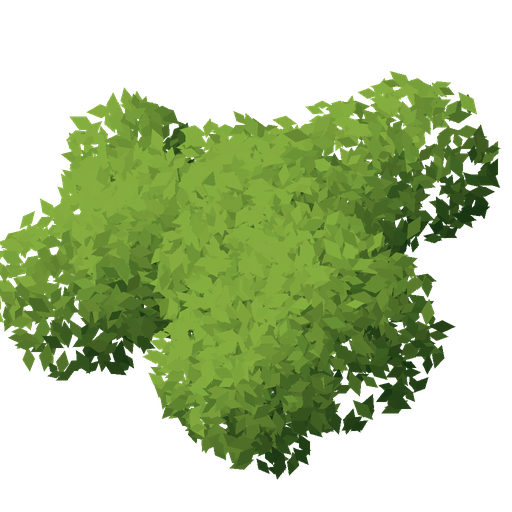
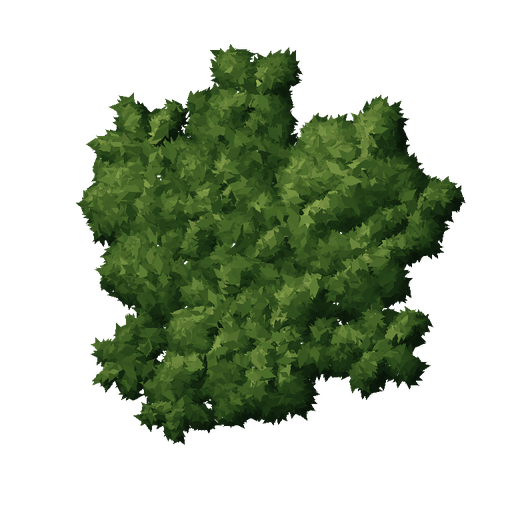
Cinematic scene B2: volumetric tree crowns, three species, wind sway (v5.9, build 30)
- tools/foliage2_tex.py: crowns from a smooth union of lobed leaf clumps -> sun shading, cavity darkening between
  clumps -> leaves stamped with that shading; three variants (deep green, olive with dry leaves, dark giant)
- Jungle Ridge: denser canopy with all three variants, fewer and darker palms; foliage vertex sway (WIND uniform)
- Harbor/Canyon canopy tints adjusted for the new sprite; tests/regress.js 22/22

Claude-Session: https://claude.ai/code/session_01AsdB9u4gCDyr1VnZkMAyLa

diff --git a/js/world.js b/js/world.js
@@ -132,7 +132,7 @@ const BIOME={
    if(x<-30)h+=mtn(x,z,30);if(x>48)h=Math.max(h,mtn(x,z,22,48,95)-4);return h;},
   P:{low:'#5f8f48',mid:'#6f9a52',m0:1,m1:4,high:'#6b6b5a',h0:8,h1:16,rock:'#7a6e60',snow:24,sand:1,wl:.6,sandc:'#e0cf9f',deep:'#2a5560'},uses:['canopy','boulder','boulder2','kk_building_A','kk_building_E'],
   props(R,z0,put,HF){for(let z=z0-2;z>z0-TL;z-=4.4+R()*1.6){const x=-15-R()*6;if(HF(x,z)>.6){if(R()<.45)put(pick(['kk_building_A','kk_building_E']),x,z,2.4+R()*.5,Math.floor(R()*4)*Math.PI/2,null);else put(R()<.75?'house':'ware',x,z,1+R()*.4,R()*.4-.2,pick(['#f2e6d0','#e8d8c0','#dfe6ea','#f4d6b8']),1,0);}}
-   for(let i=0;i<120;i++){const x=-24-R()*70,z=z0-R()*TL,h=HF(x,z);if(h>.9&&h<14)put('canopy',x,z,5.5+R()*4,R()*TAU,pick(['#8aa070','#7a9464','#98ac78']));}
+   for(let i=0;i<120;i++){const x=-24-R()*70,z=z0-R()*TL,h=HF(x,z);if(h>.9&&h<14)put('canopy',x,z,5.5+R()*4,R()*TAU,pick(['#e0ead6','#d6e2cc','#eef2e2']));}
    for(let i=0;i<3;i++){const z=z0-10-R()*(TL-20),c=-9+2.5*Math.sin(z*.012)+1.2*Math.sin(z*.041);put('pier',c+3,z,1,0,'#7b6248',1,0,[7,1,1]);}
    for(let i=0;i<30;i++){const x=48+R()*50,z=z0-R()*TL;if(HF(x,z)>1)put(R()<.5?'boulder':'boulder2',x,z,1.4+R()*2.4,R()*TAU,'#e8e0d4',.8,-.3);}}},
  farm:{sky:['#4a90e2','#cfe3f5','#a8b890'],fog:'#d6e4ee',fogN:1,sun:['#fff1d6',2.6],sunDir:[-.35,.8,-.4],hemi:['#cfe3ff','#5a6a3a',.55],exp:1,wl:-60,clouds:6,
@@ -195,12 +195,12 @@ const BIOME={
    if(bank<3.6){grav=Math.max(grav,(1-sst(2.2,3.6,bank))*.7);soil*=.6;}
    const tot=rock+soil+moss+grav;if(tot>1){rock/=tot;soil/=tot;moss/=tot;grav/=tot;}o[0]=soil;o[1]=rock;o[2]=moss;o[3]=grav;},
   wet(x,z,h){const rx=7+7*Math.sin(z*.011)+2*Math.sin(z*.037);return 1-sst(2.5,6,Math.abs(x-rx));},
-  occ:{canopy:[.42,.5],palmS:[.28,.35],boulder:[1,.55],boulder2:[1,.55],stone:[.6,.45]},   // contact shadow radius factor, strength
-  uses:['boulder','boulder2','stone','palmS','canopy','fern'],
+  occ:{canopy:[.42,.5],canopy2:[.42,.5],canopy3:[.44,.55],palmS:[.28,.35],boulder:[1,.55],boulder2:[1,.55],stone:[.6,.45]},   // contact shadow radius factor, strength
+  uses:['boulder','boulder2','stone','palmS','canopy','canopy2','canopy3','fern'],
   props(R,z0,put,HF){const RX=z=>7+7*Math.sin(z*.011)+2*Math.sin(z*.037),SL=(x,z)=>Math.hypot(HF(x+1,z)-HF(x-1,z),HF(x,z+1)-HF(x,z-1))/2;
    // broadleaf canopy, dense on gentle ground, never on cliff faces
-   for(let i=0;i<170;i++){const x=R()*170-85,z=z0-R()*TL,h=HF(x,z);if(h<.6||Math.abs(x-RX(z))<5.5||SL(x,z)>.45)continue;put('canopy',x,z,6+R()*4.5,R()*TAU,pick(['#7e9468','#73885e','#8a9a70','#68805a']));}
-   for(let i=0;i<70;i++){const z=z0-R()*TL,sd=R()<.5?-1:1,x=RX(z)+sd*(4.5+R()*14),h=HF(x,z);if(h<.2||SL(x,z)>.4)continue;put('palmS',x,z,6+R()*3,R()*TAU,pick(['#94a87a','#88a070','#9eb084']));}
+   for(let i=0;i<250;i++){const x=R()*170-85,z=z0-R()*TL,h=HF(x,z);if(h<.6||Math.abs(x-RX(z))<5.5||SL(x,z)>.45)continue;const v=R(),big=v>.82;put(v<.5?'canopy':big?'canopy3':'canopy2',x,z,(big?8:6)+R()*4.5,R()*TAU,pick(['#e8f0e0','#dce8d2','#f2f4e6','#d4e0c8']));}
+   for(let i=0;i<28;i++){const z=z0-R()*TL,sd=R()<.5?-1:1,x=RX(z)+sd*(4.5+R()*12),h=HF(x,z);if(h<.2||SL(x,z)>.4)continue;put('palmS',x,z,5.5+R()*2.5,R()*TAU,pick(['#7c8c66','#748660','#869472']));}
    for(let i=0;i<240;i++){const x=R()*150-75,z=z0-R()*TL,h=HF(x,z);if(h<.1||Math.abs(x-RX(z))<4||SL(x,z)>.5)continue;put('fern',x,z,1.6+R()*1.6,R()*TAU,pick(['#86a070','#7a9466','#90a87a']));}
    // river-bank stones
    for(let i=0;i<36;i++){const z=z0-R()*TL,sd=R()<.5?-1:1,x=RX(z)+sd*(3+R()*3);put(R()<.5?'boulder':'boulder2',x,z,.6+R()*1.3,R()*TAU,pick(['#e6e0d4','#d6d0c4','#c8c2b6']),.75+R()*.4,-.2);}
@@ -233,7 +233,7 @@ const BIOME={
   HF(x,z){const rv=2+6*Math.sin(z*.009),d=Math.abs(x-rv);let p=sst(10,24,d+fbm(x*.05,z*.05,2)*4)*20+fbm(x*.03,z*.03,3)*2;p=Math.floor(p/3)*3+(p%3)*.3;let h=.6+p+mtn(x,z,14,50,95);h-=2.6*Math.exp(-((d/2.8)**2));return h;},
   P:{low:'#c98a5a',mid:'#b4653f',m0:1,m1:4,high:'#d98d5f',h0:10,h1:16,rock:'#8d4630',sand:1,wl:-.2,sandc:'#a8704a',deep:'#5a3a2a'},
   cf(o,x,z,h,sl){if(h>2){const b=Math.floor(h/3)%4;mixc(o,o,lc(['#a95a3b','#c4714a','#8d4630','#d98d5f'][b]),.7);}},
-  props(R,z0,put,HF){for(let i=0;i<70;i++){const x=R()*140-70,z=z0-R()*TL,h=HF(x,z);if(h>-.2){if(R()<.6)put(R()<.5?'boulder':'boulder2',x,z,1+R()*2,R()*TAU,pick(['#d88a60','#c47a52','#e09a70']),.8,-.3);else put('canopy',x,z,3.5+R()*2.5,R()*TAU,'#8a9a5c');}}}},
+  props(R,z0,put,HF){for(let i=0;i<70;i++){const x=R()*140-70,z=z0-R()*TL,h=HF(x,z);if(h>-.2){if(R()<.6)put(R()<.5?'boulder':'boulder2',x,z,1+R()*2,R()*TAU,pick(['#d88a60','#c47a52','#e09a70']),.8,-.3);else put('canopy',x,z,3.5+R()*2.5,R()*TAU,'#d8d4b0');}}}},
  arctic:{sky:['#7aa8d8','#eaf2fa','#c8d8e6'],fog:'#e2ecf4',fogN:.75,sun:['#fff8ee',2.4],sunDir:[-.4,.6,-.6],hemi:['#e6f0ff','#8aa0b8',.8],exp:.95,water:{c:'#1b3e56',op:.95},wl:0,clouds:6,
   HF(x,z){const ic=14+3*Math.sin(z*.013);let h;if(x<ic)h=.6+fbm(x*.03,z*.03,3)*1.2+(x<0?mtn(x,z,34,28,85):0);else{h=-3;if(fbm(x*.07,z*.07,2)>.18)h=.15;}if(x>60)h=Math.max(h,mtn(x,z,18,60,95)-3);return h;},
   P:{low:'#e8f0f6',mid:'#f4f8fb',m0:1,m1:4,high:'#dfe8ef',h0:6,h1:12,rock:'#5a6470',snow:10,sand:1,wl:.05,sandc:'#cfe6f0',deep:'#1a3040'},
@@ -257,7 +257,7 @@ const BIOME={
    if(R()<.8){const z=z0-R()*TL,x=(R()<.5?-1:1)*(14+R()*8);put('ruin',x,z,1,R(),'#3a302c',1,0,[6,3,1]);put('ruin',x+3,z-3,1,R(),'#3a302c',1,0,[1,4,6]);}}},
 };
 // biome-specific weather textures etc
-const PROPS={};
+const PROPS={},WIND={value:0};   // WIND: shared time uniform for foliage sway
 function nonIdx(g){return g.index?g.toNonIndexed():g;}
 function merge(parts){let n=0;const gs=parts.map(([g,c,m])=>{let q=nonIdx(g.clone());if(m)q.applyMatrix4(m);q.deleteAttribute('uv');n+=q.attributes.position.count;return[q,c];});
  const pos=new Float32Array(n*3),nor=new Float32Array(n*3),cl=new Float32Array(n*3);let o=0;
@@ -294,9 +294,13 @@ function buildProps(){const veg=new T3.MeshStandardMaterial({vertexColors:true,f
  const rockMat=new T3.MeshStandardMaterial({map:GTX.rock.map,normalMap:GTX.rock.n,normalScale:new T3.Vector2(.75,.75),roughness:.92,metalness:0});
  PROPS.boulder={geo:boulderGeo(3),mat:rockMat,cap:260};PROPS.boulder2={geo:boulderGeo(9),mat:rockMat,cap:200};
  const sb=new T3.BoxGeometry(1,1,1);sb.translate(0,.5,0);PROPS.stone={geo:sb,mat:rockMat,cap:120};
+ // foliage sways in the wind: each instance gets its own phase from its position; the crown edges move most
+ const sway=m=>{m.onBeforeCompile=sh=>{sh.uniforms.uWind=WIND;sh.vertexShader='uniform float uWind;\n'+sh.vertexShader.replace('#include <begin_vertex>',
+  '#include <begin_vertex>\n#ifdef USE_INSTANCING\nfloat wph=instanceMatrix[3].x*.21+instanceMatrix[3].z*.13;\n#else\nfloat wph=0.;\n#endif\ntransformed.xz+=vec2(sin(uWind*1.7+wph),cos(uWind*1.25+wph*1.3))*.05*length(position.xz);');};return m;};
  const spr=(f,h,cap)=>{const t=GTX.L.load('art/'+f+'?v='+BUILD);t.encoding=T3.sRGBEncoding;t.anisotropy=4;const g=new T3.PlaneGeometry(1,1);g.rotateX(-Math.PI/2);g.translate(0,h,0);
-  return{geo:g,mat:new T3.MeshStandardMaterial({map:t,alphaTest:.42,side:T3.DoubleSide,roughness:.82,metalness:0}),depth:new T3.MeshDepthMaterial({depthPacking:T3.RGBADepthPacking,map:t,alphaTest:.42}),cap};};
+  return{geo:g,mat:sway(new T3.MeshStandardMaterial({map:t,alphaTest:.42,side:T3.DoubleSide,roughness:.82,metalness:0})),depth:new T3.MeshDepthMaterial({depthPacking:T3.RGBADepthPacking,map:t,alphaTest:.42}),cap};};
  PROPS.palmS=spr('spr_palm.png',.6,220);PROPS.canopy=spr('spr_canopy.png',.5,320);PROPS.fern=spr('spr_fern.png',.12,420);
+ PROPS.canopy2=spr('spr_canopy2.png',.55,200);PROPS.canopy3=spr('spr_canopy3.png',.65,160);
  // desert props
  {const sb=[];const Rs=srng(77);for(let k=0;k<9;k++){const a=Rs()*TAU,d=Rs()*.5;sb.push([new T3.IcosahedronGeometry(.14+Rs()*.16,0),k%3?'#ffffff':'#d8d0b8',MT(Math.cos(a)*d,.1+Rs()*.12,Math.sin(a)*d,Rs()*3,Rs()*3,0,1,.6,1)]);}
   PROPS.shrub={geo:merge(sb),mat:veg,cap:220};}   // dry desert scrub: a loose clump of small tufts

diff --git a/index.html b/index.html
@@ -299,8 +299,8 @@ h3{margin:4px 0 0;font-size:12px;letter-spacing:.2em;text-transform:uppercase;co
 <script src="https://cdnjs.cloudflare.com/ajax/libs/three.js/r128/three.min.js"></script>
 <script>
 // Version info stays here (CI checks BUILD against version.json). The game code lives in js/ and is loaded in order below.
-const BUILD=29,VERSION='5.8';
-const NOTES=["Explosions rebuilt with animated fire: a white-hot core that boils, breaks into flame tongues and cools into soot", "Smoke is now billowing and lit from the sun side, darkening as it drifts", "Still from v5.7: sound effects toggle fix and real colour grading"];
+const BUILD=30,VERSION='5.9';
+const NOTES=["Jungle Ridge forest rebuilt: three kinds of tree crowns shaded in depth (lit tops, dark gaps between leaf clumps), denser and more varied", "Trees sway gently in the wind", "Fewer, darker palms; the new crowns also grow in Harbor Dawn and Red Canyon", "Still from v5.8: animated fire and billowing smoke"];
 (function(){
  if(!window.THREE){var l=document.getElementById('loading');l.hidden=false;l.textContent='Skyfire needs internet the first time it loads. Connect and reopen.';return;}
  var F=['core','data','config/balance','config/weapons','config/enemies','config/ground','config/formations','config/pickups','config/difficulty','config/missions','config/stages','config/atmos','config/bosses','config/economy','config/upgrades','config/achievements','save','economy','progression','assets/kaykit','world','terrain_pbr','biomes','models/falcon','models/ground2','bossmodels','art','audio','sfxbank','copilot','engine/fx','engine/atmos','engine/grade','engine/thrust','engine/player','engine/weapons','engine/enemies','engine/formations','engine/pickups','engine/scoring','engine/feel','engine/loadout','engine/rescue','engine/boss','engine/director','engine/missions','engine/run','scene','ui','devtools','main'];

diff --git a/js/scene.js b/js/scene.js
@@ -42,7 +42,7 @@ let PLM=null,DRM=[];
 function showPlayerModel(){for(const k in PLANES){const m=MODELS['pl_'+k];if(!m.parent)scene.add(m);m.visible=false;}PLM=MODELS['pl_'+save.plane];PLM.visible=true;
  for(const m of DRM)scene.remove(m);DRM=[];}
 // world animation shared by the legacy campaign and the new engine
-function syncEnv(dt,tnow){
+function syncEnv(dt,tnow){WIND.value=tnow;
  for(const l of FXL){if(l.intensity>0)l.intensity=Math.max(0,l.intensity-dt*l.userData.d*3);}
  // clouds drift with the world
  for(const c of LV.clouds){if(!c.visible)continue;c.position.z+=C3.v*dt*.95;if(c.position.z>C3.z+30)spawnCloud(c,false);}

diff --git a/tools/foliage2_tex.py b/tools/foliage2_tex.py
@@ -1,0 +1,56 @@
+# Volumetric tree-crown sprites (v5.9), seen from above. Original, procedural.
+# A crown is a union of leaf clumps (spheres with noise) -> height field -> sun shading (upper-left light), cavity
+# darkening between clumps and soft ambient occlusion -> thousands of small leaves stamped with that shading.
+#   art/spr_canopy.png   broadleaf, deep green      (replaces the v4.8 sprite)
+#   art/spr_canopy2.png  broadleaf, olive / yellow-green with some dry leaves
+#   art/spr_canopy3.png  dense dark rainforest giant
+# run: python3 tools/foliage2_tex.py
+import numpy as np, math
+from PIL import Image, ImageDraw, ImageFilter
+
+def blur(a, r):
+    im = Image.fromarray((np.clip(a, 0, 1)*255).astype(np.uint8), 'L').filter(ImageFilter.GaussianBlur(r))
+    return np.asarray(im).astype(float)/255
+
+def crown(seed, out, pal, S=768, nclump=70, spread=.17, dry=0.0):
+    r = np.random.default_rng(seed); c = S/2
+    yy, xx = np.mgrid[0:S, 0:S].astype(float)
+    acc = np.zeros((S, S))
+    for _ in range(nclump):
+        px, py = c + r.normal(0, S*spread), c + r.normal(0, S*spread)
+        if math.hypot(px-c, py-c) > S*.33: continue
+        R = S*(.04 + r.random()*.065)
+        ang = np.arctan2(yy-py, xx-px); Rr = R*(1 + .22*np.sin(ang*r.integers(3, 7) + r.random()*6))   # lobed, irregular clumps
+        q = Rr*Rr - (xx-px)**2 - (yy-py)**2
+        acc += np.exp(10*np.sqrt(np.clip(q, 0, None))/S*6) - 1
+    h = np.log1p(acc)/(10*6/S)/S                     # smooth union height (0..~.15)
+    h = h/max(h.max(), 1e-6)
+    n = blur(r.random((S, S)), 2)*1.0; n2 = blur(r.random((S, S)), 7)
+    h = np.clip(h + (n - .5)*.5*(h > .02) + (n2 - .5)*.6*(h > .02), 0, 1)
+    hb = blur(h, 4)
+    gy, gx = np.gradient(hb)
+    k = 34; nz = 1/np.sqrt(1 + (gx*k)**2 + (gy*k)**2); nx = -gx*k*nz; ny = -gy*k*nz
+    lam = np.clip(nx*-.5 + ny*-.55 + nz*.67, 0, 1)
+    cav = np.clip((blur(h, 14) - h)*4, 0, 1)            # gaps between clumps go dark
+    shade = np.clip(lam**1.3*(1 - cav*.9)*(.5 + .5*h)*1.15, 0, 1)
+    img = Image.new('RGBA', (S, S), (0, 0, 0, 0)); d = ImageDraw.Draw(img)
+    pts = r.random((int(S*S*.045), 2))*S
+    order = np.argsort(np.array([h[int(y), int(x)] for x, y in pts.astype(int)]))  # deep leaves first, top leaves last
+    for i in order:
+        x, y = pts[i]; hv = h[int(y), int(x)]
+        if hv < .06 and r.random() > .25: continue
+        if hv < .02: continue
+        s = shade[int(y), int(x)]*(.85 + r.random()*.3)
+        col = np.array([np.interp(s, [0, .35, .7, 1], [p[ch] for p in pal]) for ch in range(3)])
+        if dry and r.random() < dry: col = col*.6 + np.array([150, 120, 50])*.4
+        col = col*(.9 + r.random()*.2)
+        la = r.random()*math.pi; lw = S*.016*(.6 + r.random()*.8); lh = lw*.45
+        d.polygon([(x + math.cos(la)*lw, y + math.sin(la)*lw), (x + math.cos(la+1.57)*lh, y + math.sin(la+1.57)*lh),
+                   (x - math.cos(la)*lw, y - math.sin(la)*lw), (x - math.cos(la+1.57)*lh, y - math.sin(la+1.57)*lh)],
+                  fill=tuple(int(v) for v in np.clip(col, 0, 255)) + (255,))
+    img.resize((512, 512), Image.LANCZOS).save(out, optimize=True)
+
+crown(41, 'art/spr_canopy.png', [(10, 22, 10), (32, 60, 22), (72, 104, 40), (132, 156, 74)])
+crown(42, 'art/spr_canopy2.png', [(20, 26, 12), (52, 66, 26), (102, 118, 48), (170, 170, 90)], nclump=50, spread=.15, dry=.06)
+crown(43, 'art/spr_canopy3.png', [(6, 16, 8), (22, 46, 20), (52, 88, 36), (110, 140, 70)], nclump=90, spread=.19)
+print('ok')
